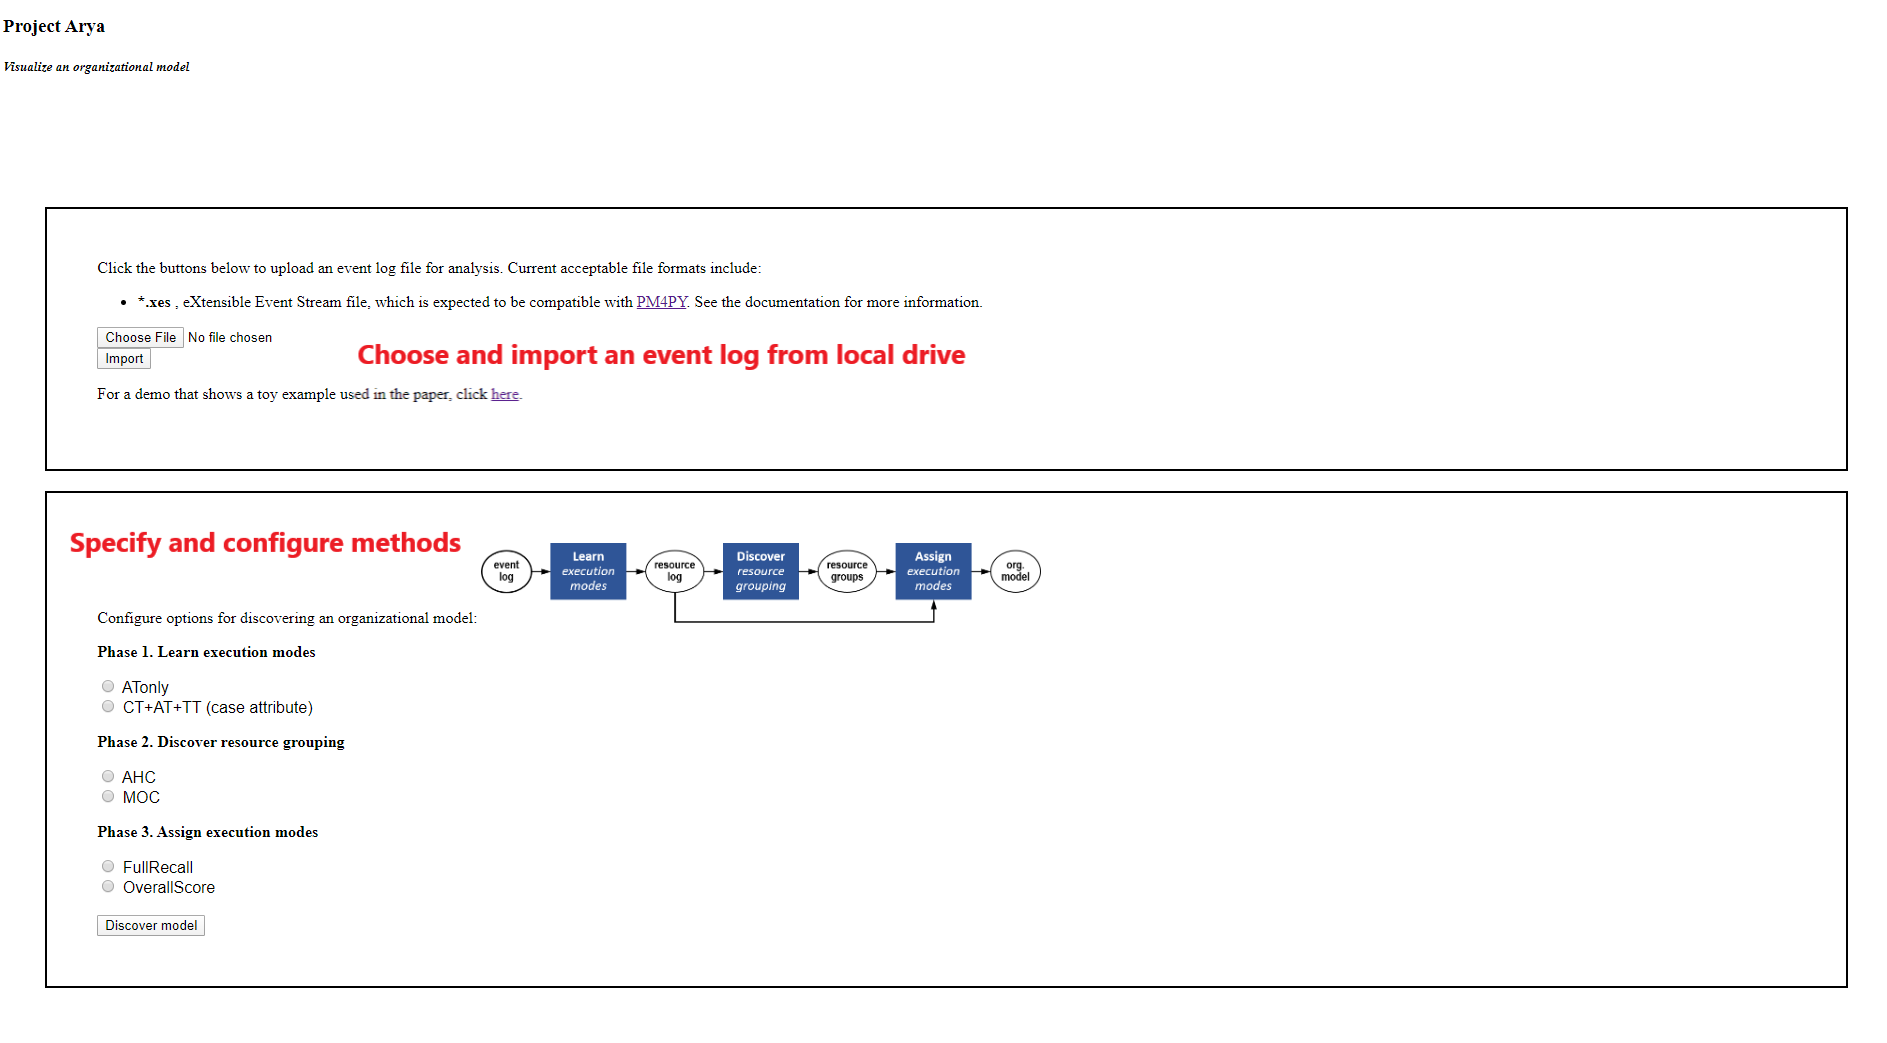
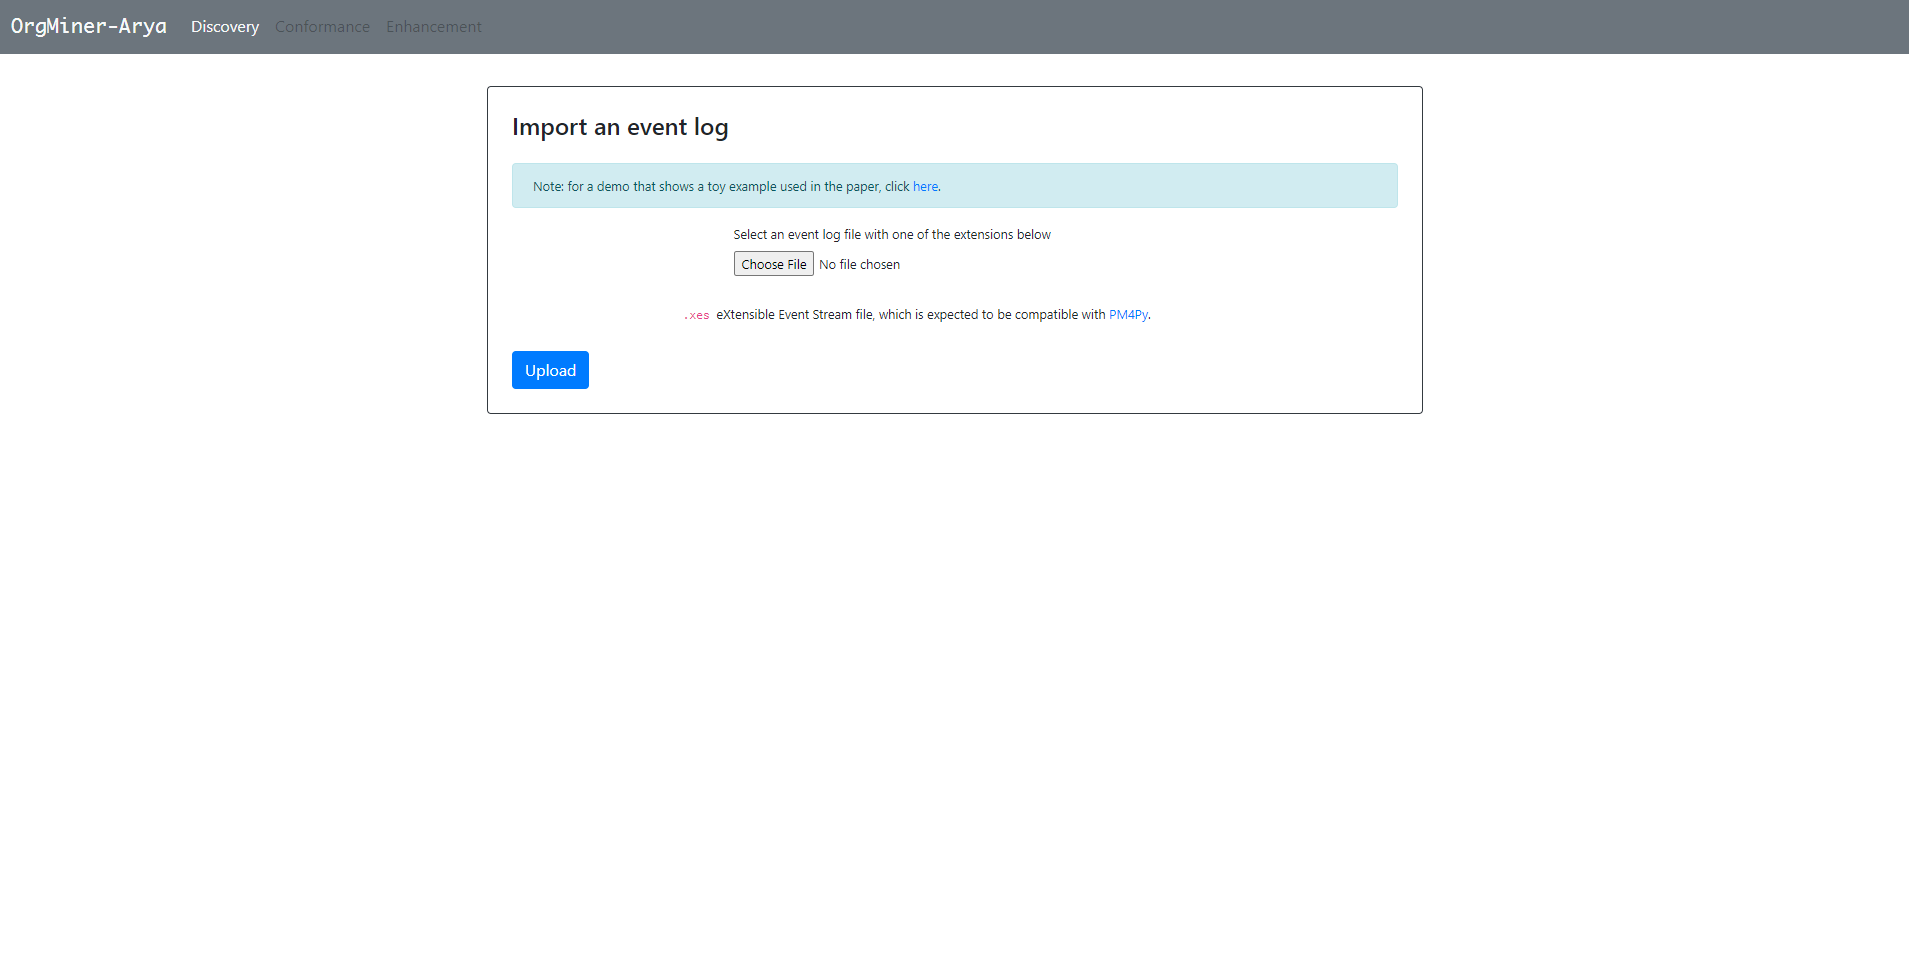
update OrgMiner-Arya instruction page

diff --git a/source/conf.py b/source/conf.py
@@ -12,9 +12,6 @@
 #
 import os
 import sys
-sys.path.insert(0, os.path.abspath('.'))
-sys.path.append('../OrgMiner/.') # NOTE: dev-use relative path
-
 
 # -- Project information -----------------------------------------------------
 

diff --git a/source/examples/infsyst2020yang-arya.rst b/source/examples/infsyst2020yang-arya.rst
@@ -1,13 +1,13 @@
 .. _examples_infsyst2020yang-arya:
 
-"OrgMining 2.0": an interactive demo
-====================================
+"OrgMining 2.0": an interactive demo tool
+=========================================
 
-This page presents an interactive demo developed as a simple client-server 
+This page introduces an interactive tool developed as a simple client-server 
 application, for performing organizational model discovery and 
 visualizing the produced models.
 
-Source code of the demo can be found in a 
+Source code of the tool can be found in a 
 `GitHub repository <https://github.com/roy-jingyang/OrgMiner-Arya>`_.
 
 .. note::
@@ -18,6 +18,11 @@ Source code of the demo can be found in a
 How to Use
 ----------
 
+.. note::
+   An online demo can be found at 
+   https://orgminer-arya-demo.herokuapp.com/, which presents the toy
+   example as shown in the paper [yang2020]_.
+
 Download and extract the bundled zip from
 `HERE <https://github.com/roy-jingyang/OrgMiner-Arya/archive/master.zip>`_, 
 in which you would find the following files:
@@ -26,37 +31,32 @@ in which you would find the following files:
 
     .
     ├── arya
-    │   ├── app.py
-    │   ├── static
-    │   ├── templates
-    │   └── tmp
     ├── LICENSE
     ├── README.md
-    ├── run.bat
-    └── run.sh
+    └── run.py
 
-The batch script ``run.bat`` (or the shell script ``run.sh`` for 
-Unix-like systems) helps you to start the app more conveniently. The 
-source code files are contained within folder ``arya``.
+The main Python program ``run.py`` helps you start the app. The source 
+code files are contained within folder ``arya``.
 
 To use the demo,
 
 1. Open an 
    `Anaconda Prompt <https://docs.anaconda.com/anaconda/user-guide/getting-started/#open-anaconda-prompt>`_ 
    (or the terminal for Unix-like systems)
-2. Change to the root directory of the extracted files, and then execute 
-   the batch (shell) script. You should see the prompting information as 
-   follows:
+2. Change to the root directory of the extracted files. Type
+
+   ``python run.py``
+
+   You should see the prompting information as follows:
 
 .. code-block:: bash
 
-    * Serving Flask app "./arya/app.py" (lazy loading)
-    * Environment: production
-    WARNING: This is a development server. Do not use it in a production deployment.
-    Use a production WSGI server instead.
-    * Debug mode: on
-    * Running on http://0.0.0.0:5000/ (Press CTRL+C to quit)
-    ...
+   * Serving Flask app "arya" (lazy loading)
+   * Environment: production
+   WARNING: This is a development server. Do not use it in a production deployment.
+   Use a production WSGI server instead.
+   * Debug mode: on
+   * Running on http://0.0.0.0:5000/ (Press CTRL+C to quit)
 
 3. Then head over to `<http://localhost:5000/>`_ in the web browser to 
    access the demo. You should see a webpage like the following.
@@ -64,18 +64,21 @@ To use the demo,
 4. Import an event log, specify and configure the methods for 
    organizational model discovery. Then click on "Discover model".
 5. The visualization of the model will be presented when the discovery 
-   procedure succeeds. You can view the details using the following 
-   actions:
+   procedure succeeds.
+   The model conformance information is shown in the panels on the right.
+   You can view the details of the discovered organizational model by the
+   following actions.
 
    * **single-click on a group** shows the group members' resource ID;
    * **double-click on a group** shows execution modes in which the 
      group capabilities are highlighted;
    * **double-click on an execution mode** expands its wild-card ("*") 
-     and shows related execution modes (so do the highlight capability 
+     and shows related execution modes (so do the highlighted capability 
      nodes). When the action expands to activity types level, a process 
      model (as a Directly-Follows Graph) will be shown for which the 
      events correspond to the selected case type.
      |fig:vis|
+
 
 .. note::
     Please allow some time for discovering a model and rendering the 
@@ -91,8 +94,8 @@ To use the demo,
 Planned work
 ------------
 
-* |uncheck| Allow performing conformance checking of an organizational 
-  model and visualize the result
+* |uncheck| Allow performing conformance checking given an organizational 
+  model as input and visualize the result.
 
 Future work
 -----------

diff --git a/source/citing.rst b/source/citing.rst
@@ -3,11 +3,6 @@
 ******
 Citing
 ******
-Please use the following publication for citing OrgMiner:
+Please consider following publication for citing OrgMiner:
 
-.. [yang2020] (citation to preprint paper to be added)
-
-For BibTeX,
-
-(bibtex citation to preprint paper to be added)
-
+.. [yang2020] Yang, J., Ouyang, C., van der Aalst, W. M. P., ter Hofstede, A. H. M., & Yu, Y. (2020). OrgMining 2.0: A Novel Framework for Organizational Model Mining from Event Logs. Manuscript submitted to Information Systems, *under review*.
